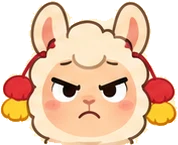
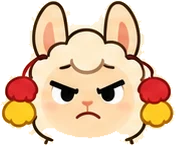
Arte unificado: Sofía reemplaza a Vale; Orki y Kusi redibujados en estilo vectorial 2D
- Hojas nuevas generadas con ChatGPT usando las hojas de Mateo/Vale como referencia de estilo.
- Recortador automático (máscara, dilatación, componentes conexos, quita etiquetas).
- characters.ts: Sofía, Tata Julián, Juanita y Bruno; safeChar corrige avatares guardados (vale -> sofia).
- store: persist v2 con migración del avatar.
- Cuentos: Vale -> Sofía y paneles de ambiente de los nuevos personajes (sin datos nuevos).

diff --git a/app/src/characters.ts b/app/src/characters.ts
@@ -1,5 +1,5 @@
-/** Personajes del equipo (ilustraciones propias recortadas de sus hojas de personaje). */
-export type CharId = "orki" | "mateo" | "wara" | "vale" | "kusi";
+/** Personajes del equipo: todos dibujados en el mismo estilo vectorial 2D y recortados de sus hojas de personaje. */
+export type CharId = "orki" | "mateo" | "wara" | "sofia" | "kusi" | "julian" | "juanita" | "bruno";
 export type Face = "alegre" | "sorprendido" | "enojado" | "triste" | "pensativo" | "chistoso";
 export type Pose = "frente" | "mueve" | "sucre" | "bolivia" | "salta";
 export type Outfit = "casual" | "tarabuco" | "cueca" | "bolivar";
@@ -16,8 +16,11 @@ export const CHARACTERS: Record<CharId, Character> = {
   orki: { id: "orki", name: "Orki", tagline: { es: "Dinosaurio de Cal Orck'o", en: "Cal Orck'o dinosaur" }, color: "#4CAF6E", outfits: ["casual", "tarabuco", "cueca", "bolivar"] },
   mateo: { id: "mateo", name: "Mateo", tagline: { es: "Skater y curioso", en: "Curious skater" }, color: "#2D6CA8", outfits: ["casual", "tarabuco", "cueca"] },
   wara: { id: "wara", name: "Wara", tagline: { es: "Nada la sorprende… casi", en: "Hard to impress… almost" }, color: "#6B3FA0", outfits: ["casual", "tarabuco", "cueca"] },
-  vale: { id: "vale", name: "Vale", tagline: { es: "Siempre a la moda", en: "Always in style" }, color: "#C0532D", outfits: ["casual", "tarabuco", "cueca"] },
+  sofia: { id: "sofia", name: "Sofía", tagline: { es: "Carisma y estilo propio", en: "Charisma and her own style" }, color: "#C0532D", outfits: ["casual", "tarabuco", "cueca"] },
   kusi: { id: "kusi", name: "Kusi", tagline: { es: "Llama con aguayo, pura alegría", en: "Llama with an aguayo, pure joy" }, color: "#B0479A", outfits: ["casual", "tarabuco", "cueca"] },
+  julian: { id: "julian", name: "Tata Julián", tagline: { es: "El abuelo cuentacuentos", en: "The storytelling grandpa" }, color: "#8A5A2B", outfits: ["casual", "tarabuco", "cueca"] },
+  juanita: { id: "juanita", name: "Juanita", tagline: { es: "Cholita chuquisaqueña con orgullo", en: "Proud Chuquisaca cholita" }, color: "#C2185B", outfits: ["casual", "tarabuco", "cueca"] },
+  bruno: { id: "bruno", name: "Bruno", tagline: { es: "Deportista y entrenador del barrio", en: "Athlete and neighborhood coach" }, color: "#1E8A4C", outfits: ["casual", "tarabuco", "cueca"] },
 };
 
 export const OUTFITS: Record<Outfit, { es: string; en: string; xp: number }> = {
@@ -29,20 +32,26 @@ export const OUTFITS: Record<Outfit, { es: string; en: string; xp: number }> = {
 
 const img = (name: string) => `/personajes/${name}.webp`;
 
+/** Si un perfil guardado trae un personaje que ya no existe (p. ej. "vale"), se usa uno válido. */
+export function safeChar(c: string | undefined): CharId {
+  if (c && c in CHARACTERS) return c as CharId;
+  return c === "vale" ? "sofia" : "mateo";
+}
+
 export function faceImg(c: CharId, f: Face) {
-  const face = c === "orki" && f === "chistoso" ? "guino" : f;
-  return img(`${c}-cara-${face}`);
+  return img(`${safeChar(c)}-cara-${f}`);
 }
 
 export function poseImg(c: CharId, p: Pose) {
-  if (c === "orki") return img(p === "frente" ? "orki-explora" : p === "mueve" ? "orki-explora" : `orki-${p}`);
-  return img(`${c}-${p}`);
+  const id = safeChar(c);
+  if (id === "orki" && p === "mueve") return img("orki-explora");
+  return img(`${id}-${p}`);
 }
 
 export function outfitImg(c: CharId, o: Outfit) {
-  if (c === "orki") return img(o === "casual" ? "orki-explora" : `orki-${o}`);
-  if (o === "bolivar") return img(`${c}-casual`);
-  return img(`${c}-${o}`);
+  const id = safeChar(c);
+  if (o === "bolivar" && id !== "orki") return img(`${id}-casual`);
+  return img(`${id}-${o}`);
 }
 
 /** Precarga para que las expresiones cambien sin parpadeo. */

diff --git a/app/src/store.ts b/app/src/store.ts
@@ -1,6 +1,6 @@
 import { create } from "zustand";
 import { persist } from "zustand/middleware";
-import type { CharId, Outfit } from "./characters";
+import { safeChar, type CharId, type Outfit } from "./characters";
 import type { Lang, LessonsResponse } from "./types";
 
 export type Progress = { stories: boolean; cuento?: boolean; lesson: boolean; best: number; golden: boolean; stars?: number };
@@ -114,6 +114,15 @@ export const useStore = create<State>()(
       dequeueEvents: (ids) => set({ queue: get().queue.filter((e) => !ids.includes(e.eventId)) }),
       dequeueReports: (ids) => set({ reports: get().reports.filter((r) => !ids.includes(r.id)) }),
     }),
-    { name: "guardianes-v1" },
+    {
+      name: "guardianes-v1",
+      version: 2,
+      // v2: Vale pasó a ser Sofía y se sumaron personajes; un avatar guardado inválido se corrige.
+      migrate: (persisted) => {
+        const s = (persisted ?? {}) as Partial<State>;
+        if (s.avatar) s.avatar = { c: safeChar(s.avatar.c), outfit: s.avatar.outfit ?? "casual" };
+        return s as State;
+      },
+    },
   ),
 );

diff --git a/app/src/components/Comic.tsx b/app/src/components/Comic.tsx
@@ -1,6 +1,6 @@
 import { AnimatePresence, motion } from "motion/react";
 import { useEffect, useState } from "react";
-import { CHARACTERS, type CharId, type Face, type Pose } from "../characters";
+import { CHARACTERS, safeChar, type CharId, type Face, type Pose } from "../characters";
 import { CharFace, CharPose } from "./Character";
 import { Scene } from "./Scene";
 import { Button, Icon } from "./ui";
@@ -48,7 +48,7 @@ export function ComicReader({ id, cuento, lang, onClose, onFinish, finishLabel }
   const p = cuento.panels[i];
   const last = i === cuento.panels.length - 1;
   const fromLeft = p.who !== "orki";
-  const char = CHARACTERS[p.who];
+  const char = CHARACTERS[safeChar(p.who)];
 
   useEffect(() => {
     setTyped(false);

diff --git a/app/src/pages/Profile.tsx b/app/src/pages/Profile.tsx
@@ -1,5 +1,5 @@
 import { motion } from "motion/react";
-import { CHARACTERS, OUTFITS, outfitImg, type CharId, type Outfit } from "../characters";
+import { CHARACTERS, OUTFITS, outfitImg, safeChar, type CharId, type Outfit } from "../characters";
 import { CharFace, CharOutfit } from "../components/Character";
 import { StudentShell } from "../components/Shell";
 import { Icon } from "../components/ui";
@@ -17,7 +17,7 @@ export function ProfilePage() {
   const profile = useStore((s) => s.profile);
   const progress = useStore((s) => s.progress);
   const stars = Object.values(progress).reduce((n, p) => n + (p.stars ?? 0), 0);
-  const ch = CHARACTERS[avatar.c];
+  const ch = CHARACTERS[safeChar(avatar.c)];
 
   return (
     <StudentShell>
